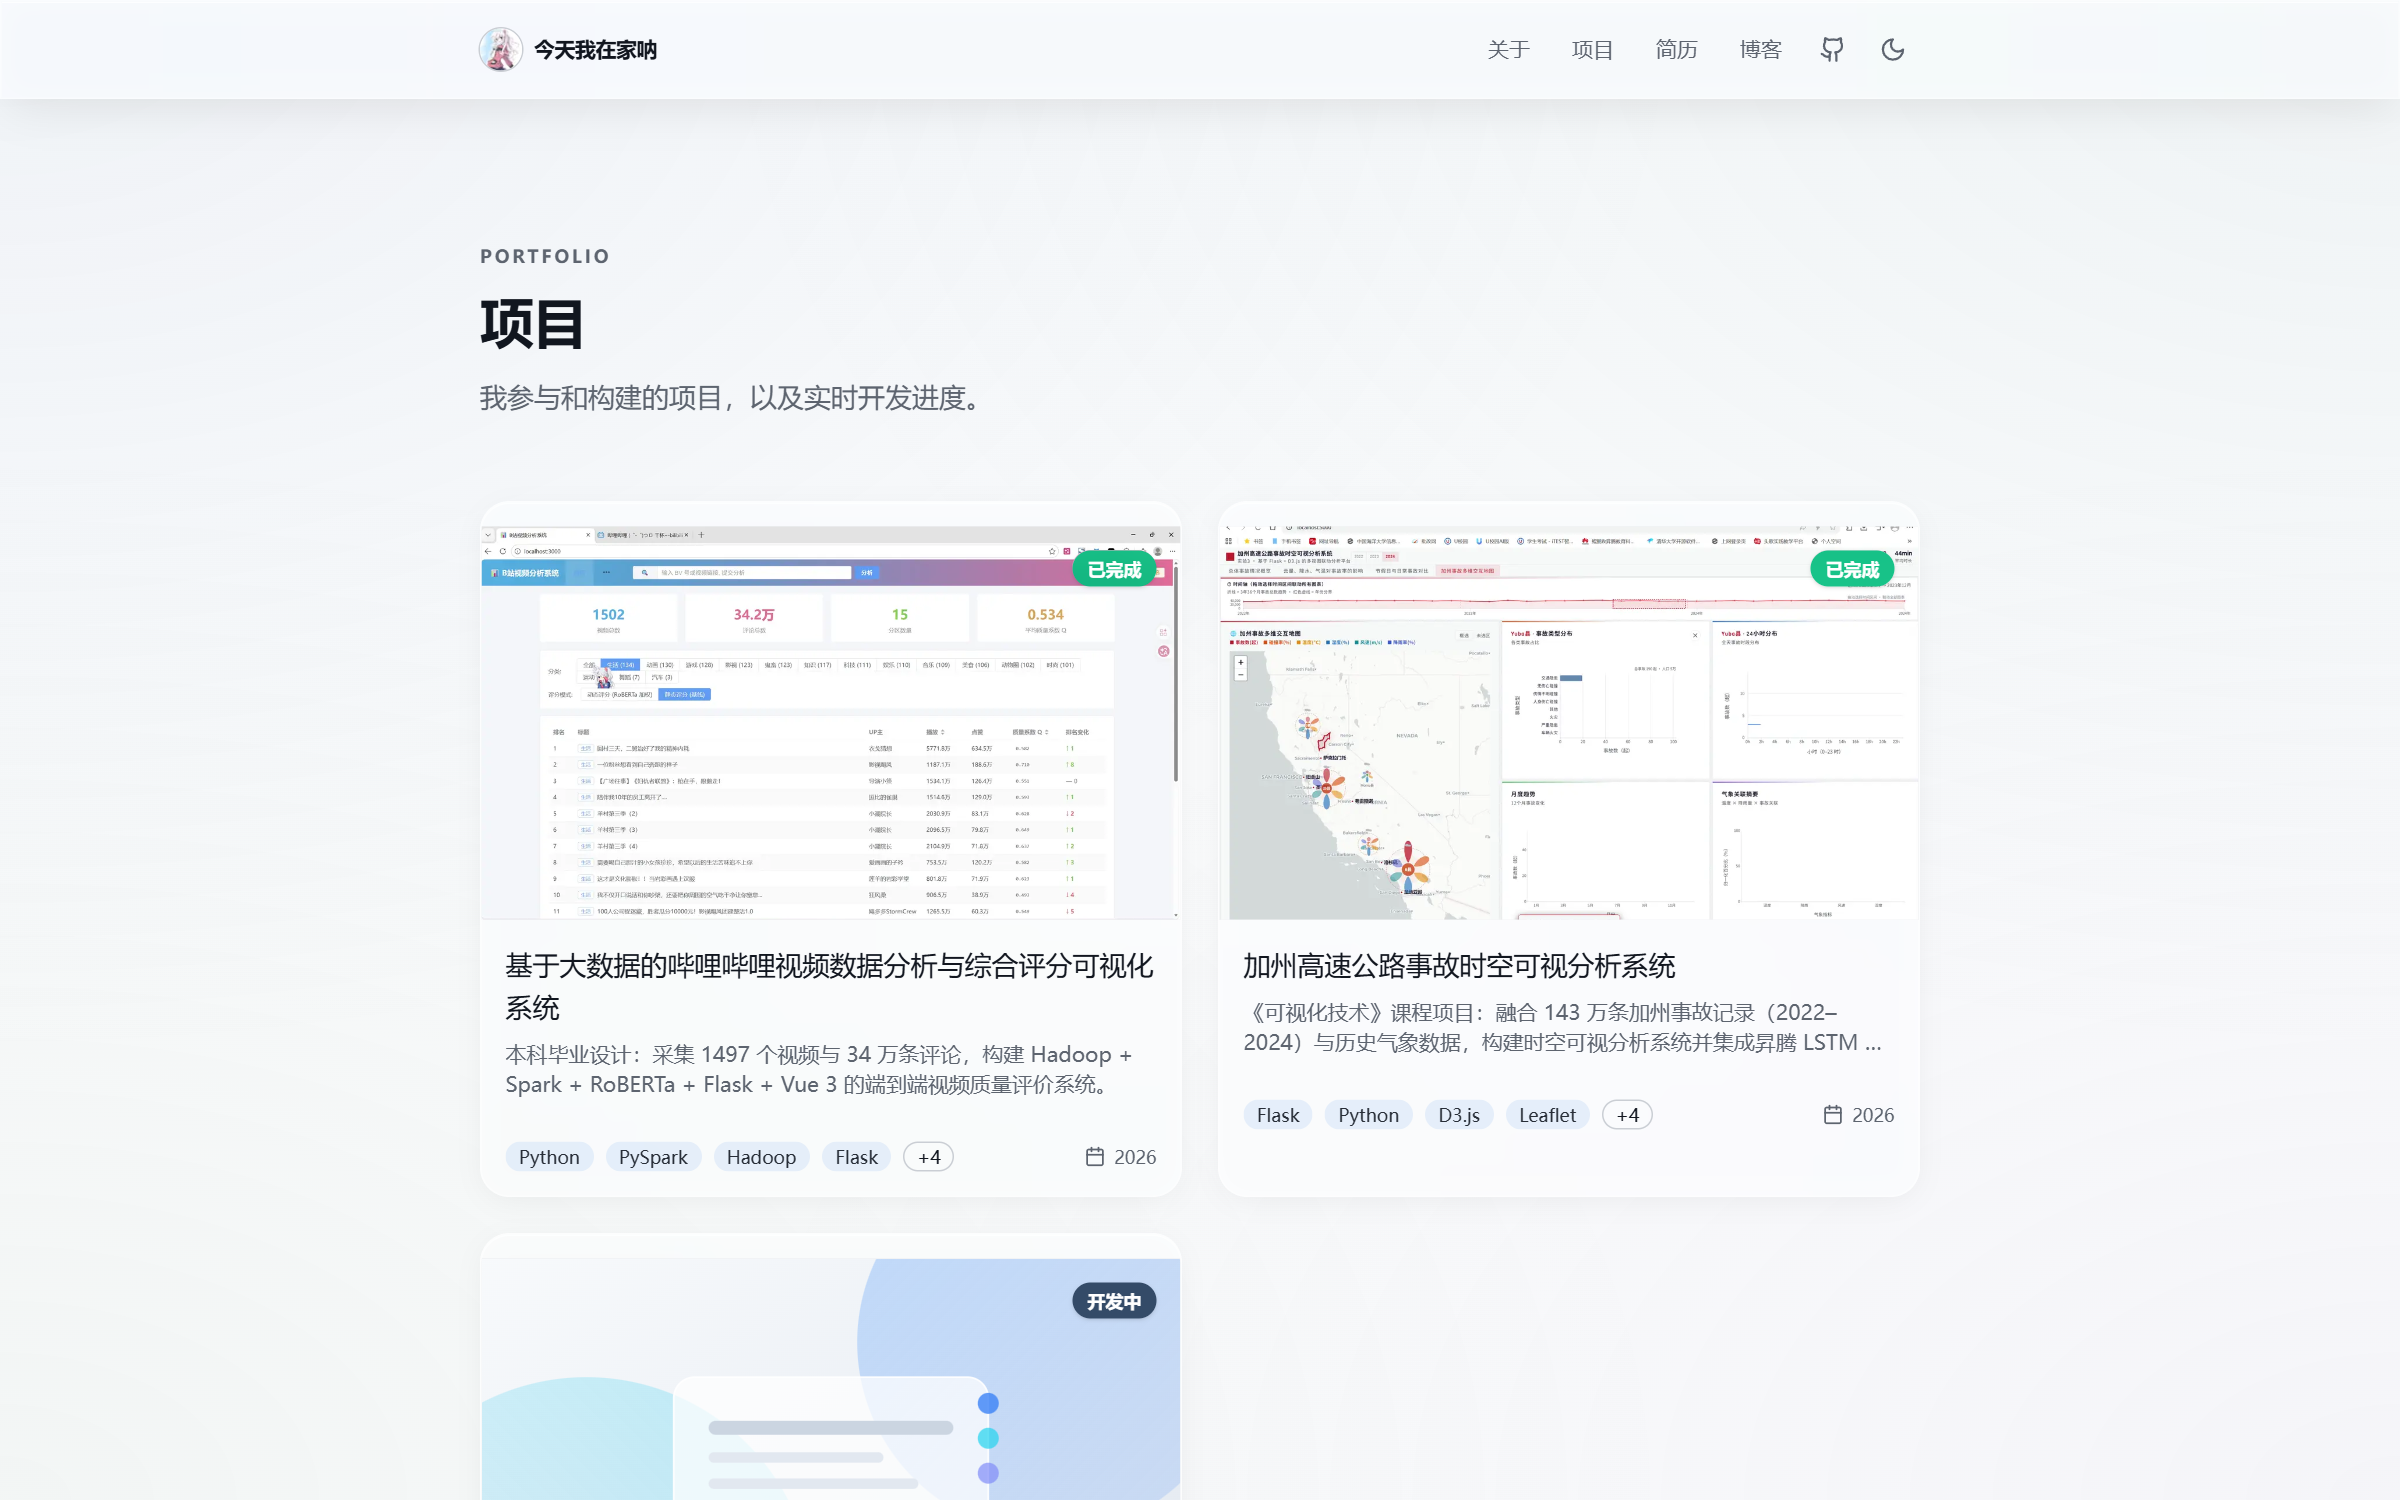
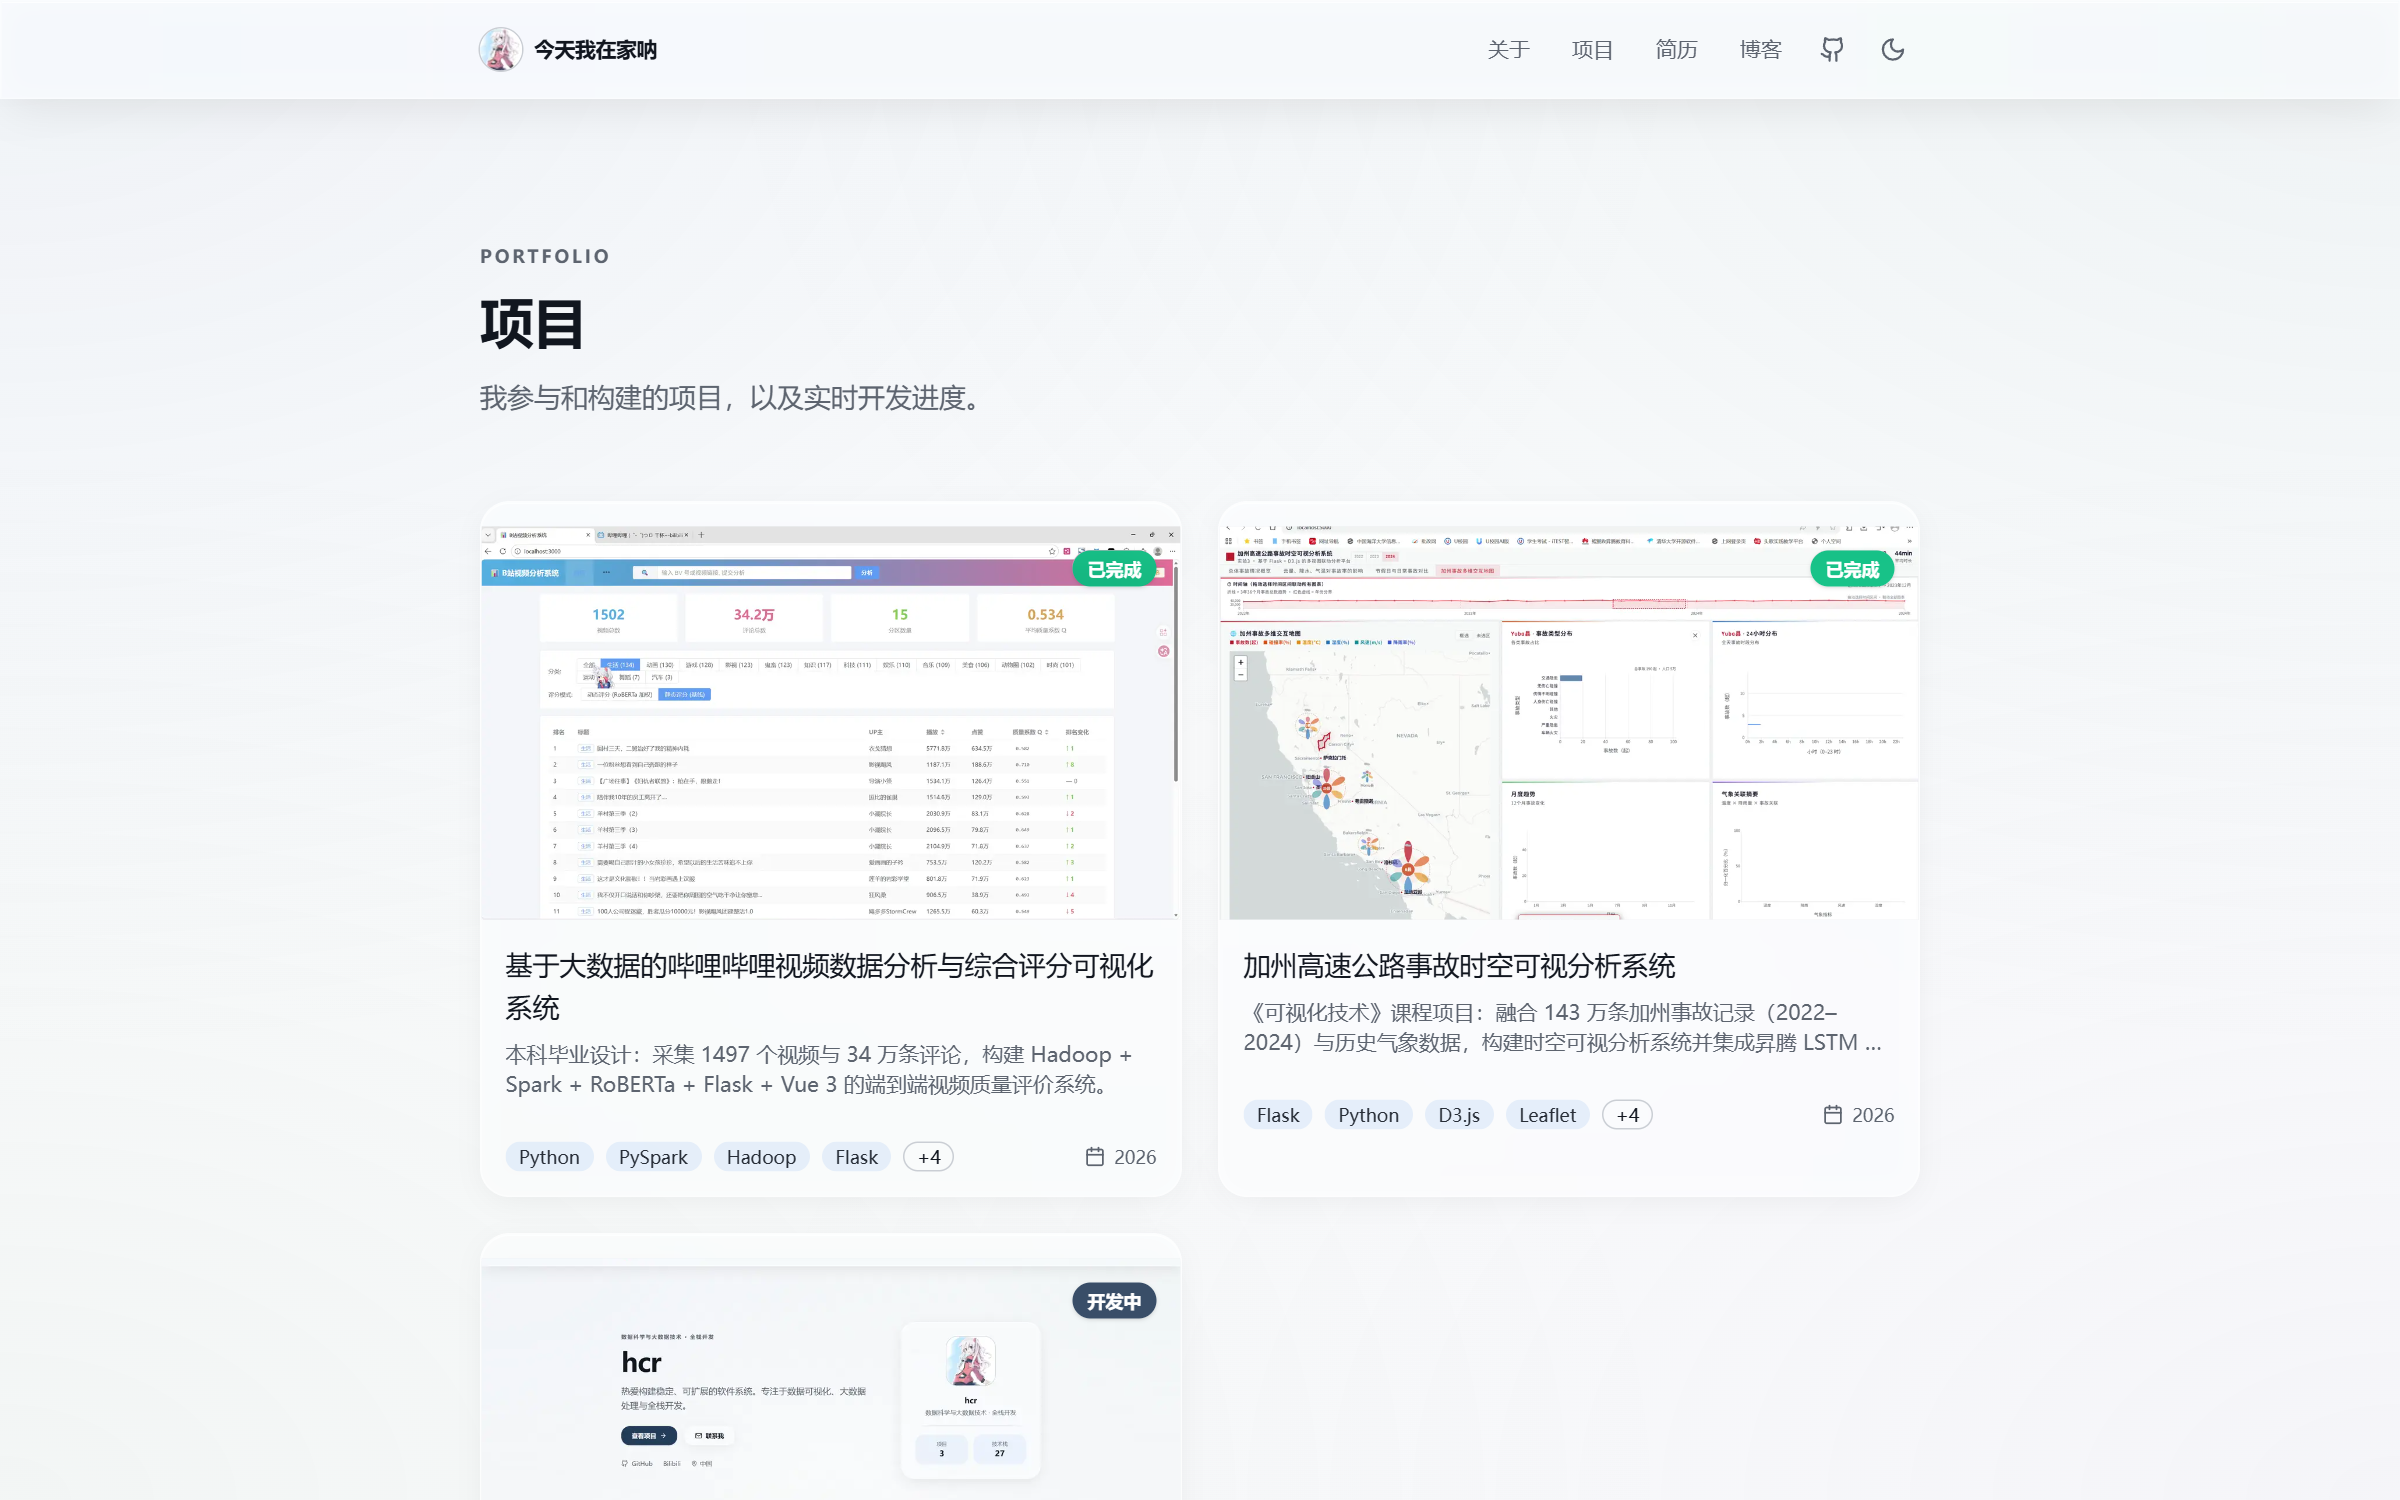
feat: 个人网站项目页补入项目列表截图，截图断言合并为一致性用例
- 重截 03-projects.png：新封面部署后，项目列表页显示的是三个真实封面。
  上一次抓取时该页面里「个人网站」卡片仍是旧的 SVG 占位图，若直接使用
  会出现「截图中的网站」与「实际网站」不一致的自相矛盾
- 将该截图加入「系统界面」章节，个人网站项目现共 5 张产品截图
- 截图脚本支持 CAPTURE_ONLY 环境变量，便于只重截受影响的单张，
  避免无谓地刷新其余文件的二进制差异
- e2e：把原先散落在两个用例中的「截图数量」断言合并为一条一致性用例，
  一次校验三个项目详情页的截图数量，并断言不再出现任何 SVG 占位图

验证：format:check / lint / typecheck / 38 个单元用例 / 20 个 e2e 全部通过。

Changed region(s): [[0.1875, 0.828, 0.5, 1.0]]

diff --git a/e2e/site.spec.ts b/e2e/site.spec.ts
@@ -128,10 +128,6 @@ test.describe('项目列表与详情', () => {
     // 已完成项目展示项目周期，而不是无信息量的「进度 100%」
     await expect(page.getByText(/项目周期：\d{4} 年/)).toBeVisible()
     await expect(page.getByText('开发进度')).toHaveCount(0)
-
-    // 「系统界面」的 6 张截图确实加载成功（而非坏图）
-    const images = page.locator('article img, .prose img')
-    expect(await images.count()).toBeGreaterThanOrEqual(6)
   })
 
   test('加州项目详情页展示真实截图与 AI 实验数据', async ({ page }) => {
@@ -142,17 +138,36 @@ test.describe('项目列表与详情', () => {
     )
     await expect(page.getByText('1,434,106').first()).toBeVisible()
 
-    // 系统截图确实加载成功（而非坏图）
-    const images = page.locator('article img, .prose img')
-    const count = await images.count()
-    expect(count).toBeGreaterThanOrEqual(5)
-
     // 源码链接
     await expect(
       page.locator(
         'a[href="https://github.com/jtwzjn/highway-accident-visualization"]'
       )
     ).toBeVisible()
+  })
+
+  test('三个项目详情页都展示真实截图，且不再有 SVG 占位封面', async ({
+    page,
+  }) => {
+    const expectations: Array<[string, number]> = [
+      ['/projects/bilibili-video-analysis', 6],
+      ['/projects/highway-accident-visualization', 5],
+      ['/projects/personal-website', 5],
+    ]
+
+    for (const [path, min] of expectations) {
+      await page.goto(path)
+
+      const images = page.locator('article img, .prose img')
+      const count = await images.count()
+      expect(count, `${path} 的截图数量不足`).toBeGreaterThanOrEqual(min)
+
+      // 占位图（SVG）应已全部被真实截图替换
+      expect(
+        await page.locator('article img[src$=".svg"]').count(),
+        `${path} 仍存在 SVG 占位图`
+      ).toBe(0)
+    }
   })
 
   test('进行中的项目展示进度条，已完成项目展示项目周期', async ({ page }) => {

diff --git a/content/projects/personal-website.md b/content/projects/personal-website.md
@@ -63,6 +63,10 @@ milestones:
 
 ![简历页](/images/projects/personal-website/02-resume.png)
 
+**项目列表**：三个项目的封面均取自各自系统的真实界面。
+
+![项目列表](/images/projects/personal-website/03-projects.png)
+
 **博客列表**：技术 / 日常栏目筛选与标签导航。内容存储在 PostgreSQL，可通过后台在线编辑，无需重新部署即可发布。
 
 ![博客列表](/images/projects/personal-website/04-blog.png)
